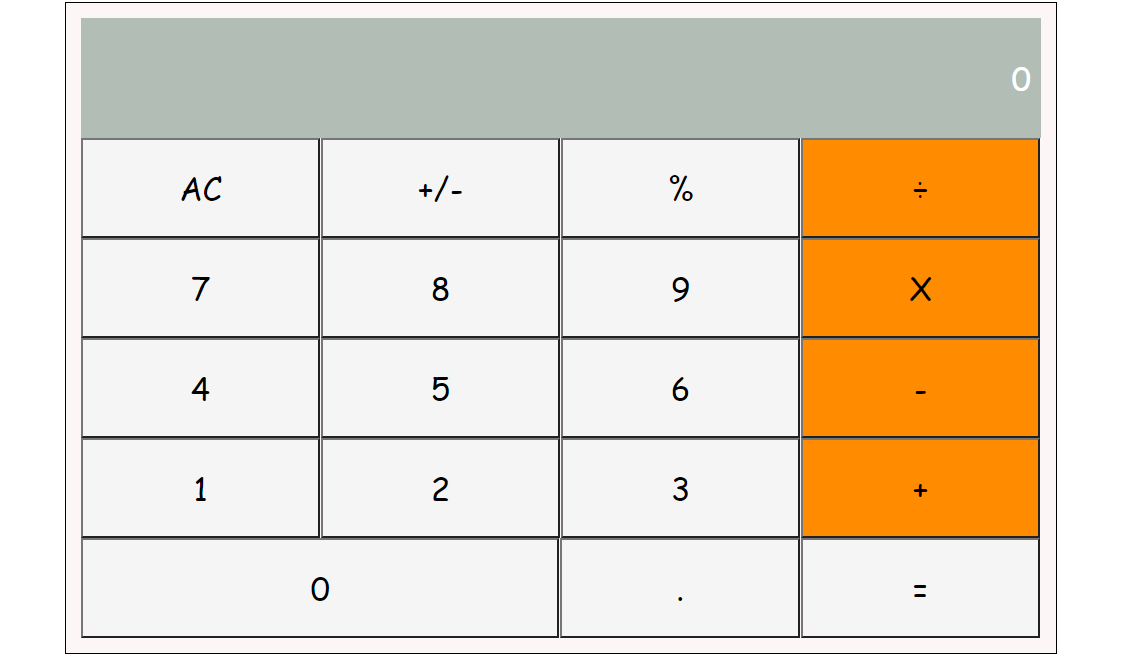
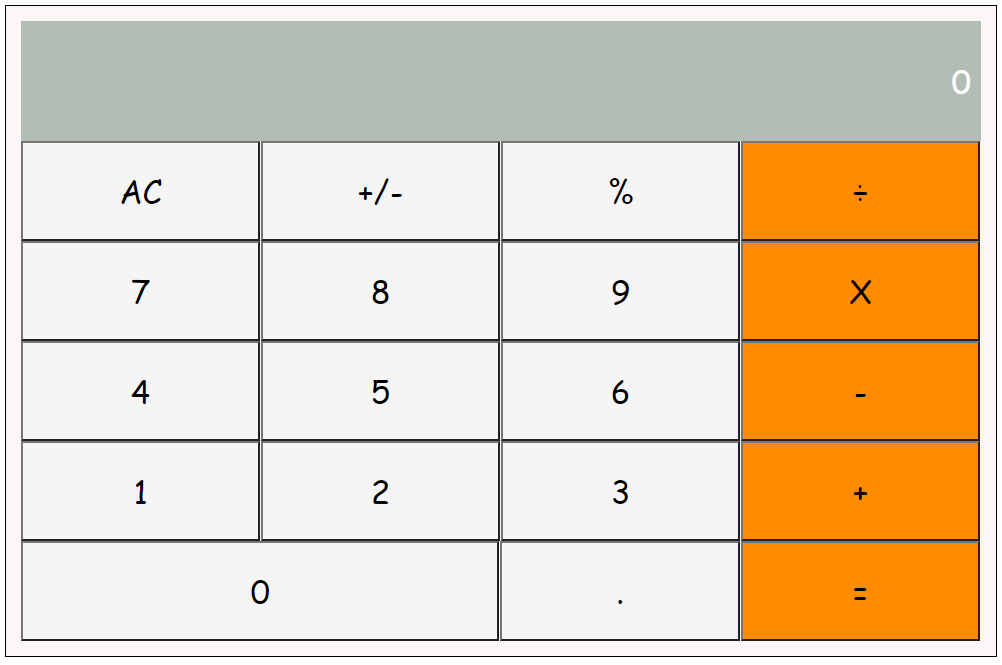
fix ui bug

diff --git a/src/components/Button.js b/src/components/Button.js
@@ -8,8 +8,10 @@ class Button extends React.PureComponent {
       let cl = 'bg-ash';
       let row = '';
       let selectLast = 3;
-      if (last && index === 0) {
-        row = 'ctrl-btn-2-row';
+      if (last) {
+        if (index === 0) {
+          row = 'ctrl-btn-2-row';
+        }
         selectLast = 2;
       }
       if (index === selectLast) {
